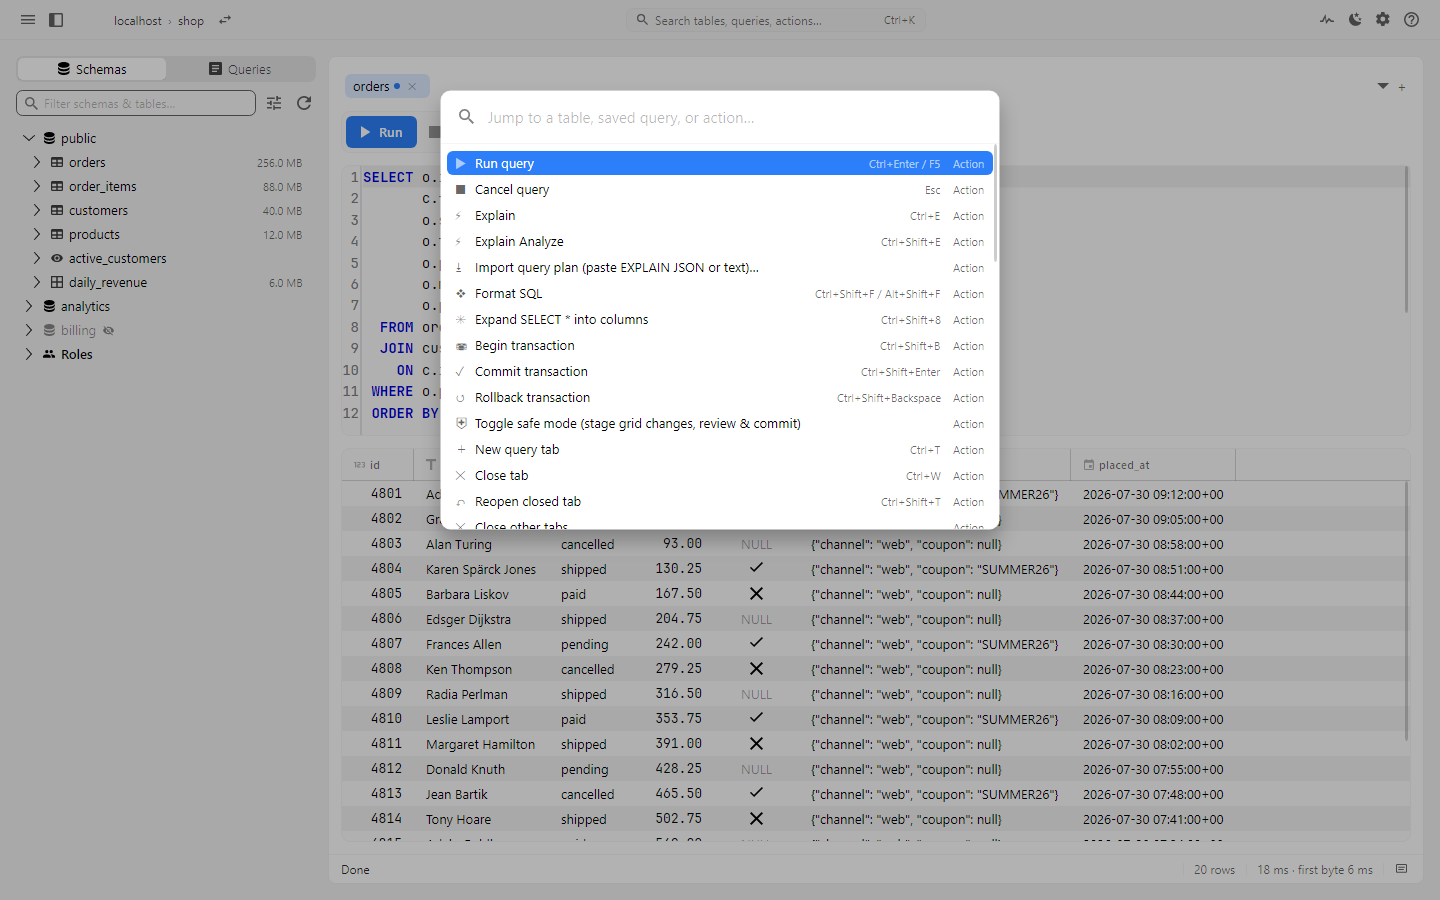
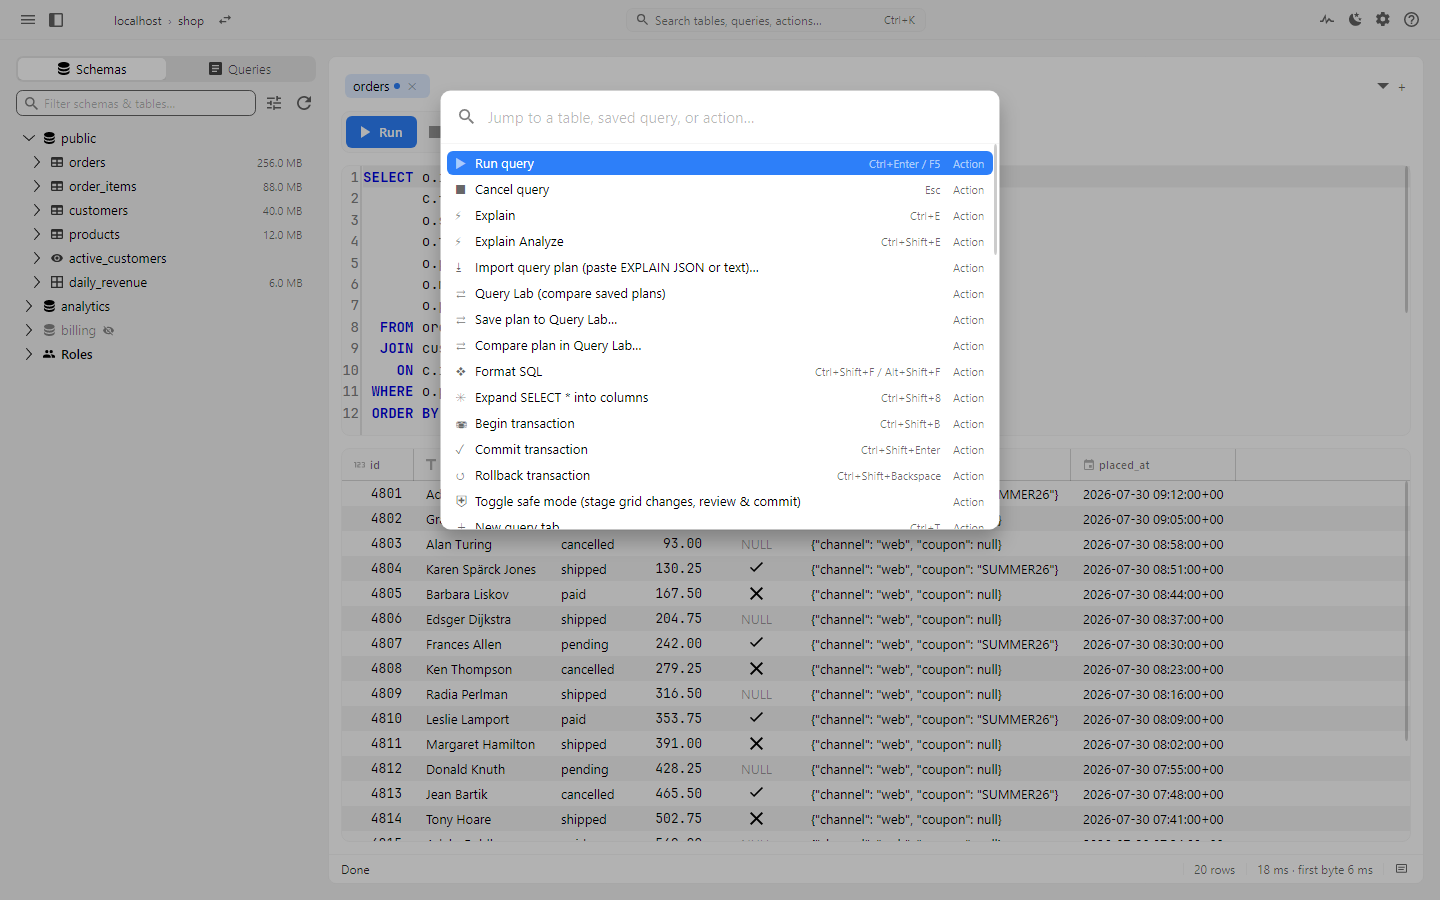
Update project landing page (from website/index.html @ 833981a)

Changed region(s): [[0.3125, 0.3111, 0.5625, 0.5911], [0.5625, 0.3111, 0.6562, 0.56], [0.5, 0.5289, 0.5625, 0.56]]

diff --git a/index.html b/index.html
@@ -452,8 +452,8 @@
       </div>
       <div class="dl">
         <h3>macOS <span style="font-weight:400;color:var(--ink-soft)">(early beta)</span></h3>
-        <p>Apple Silicon <code>.dmg</code> (macOS 12 or later) from GitHub Releases. Drag pgNimbus to Applications, then right-click it and choose <strong>Open</strong> the first time:</p>
-        <p><code>Right-click &rarr; Open &rarr; Open</code></p>
+        <p>Apple Silicon <code>.dmg</code> (macOS 12 or later) from GitHub Releases. Drag pgNimbus to Applications and open it once. macOS blocks that first launch, then lets it through from Settings:</p>
+        <p><code>System Settings &rarr; Privacy &amp; Security &rarr; Open Anyway</code></p>
         <a class="btn" href="https://github.com/Shman4ik/pgNimbus/releases/latest">
           <svg viewBox="0 0 24 24" fill="none" stroke="currentColor" stroke-width="2" stroke-linecap="round" stroke-linejoin="round" aria-hidden="true"><path d="M21 15v4a2 2 0 0 1-2 2H5a2 2 0 0 1-2-2v-4"/><polyline points="7 10 12 15 17 10"/><line x1="12" y1="15" x2="12" y2="3"/></svg>
           Download .dmg
